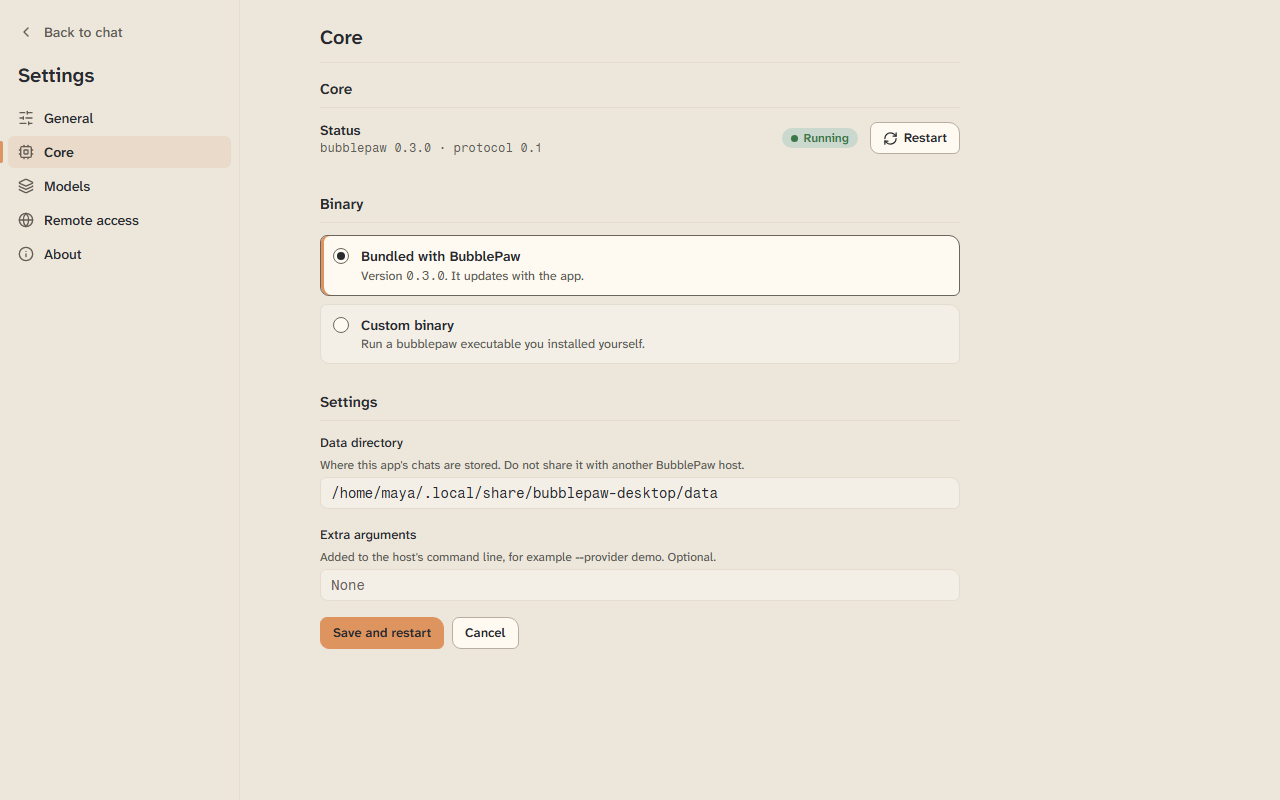
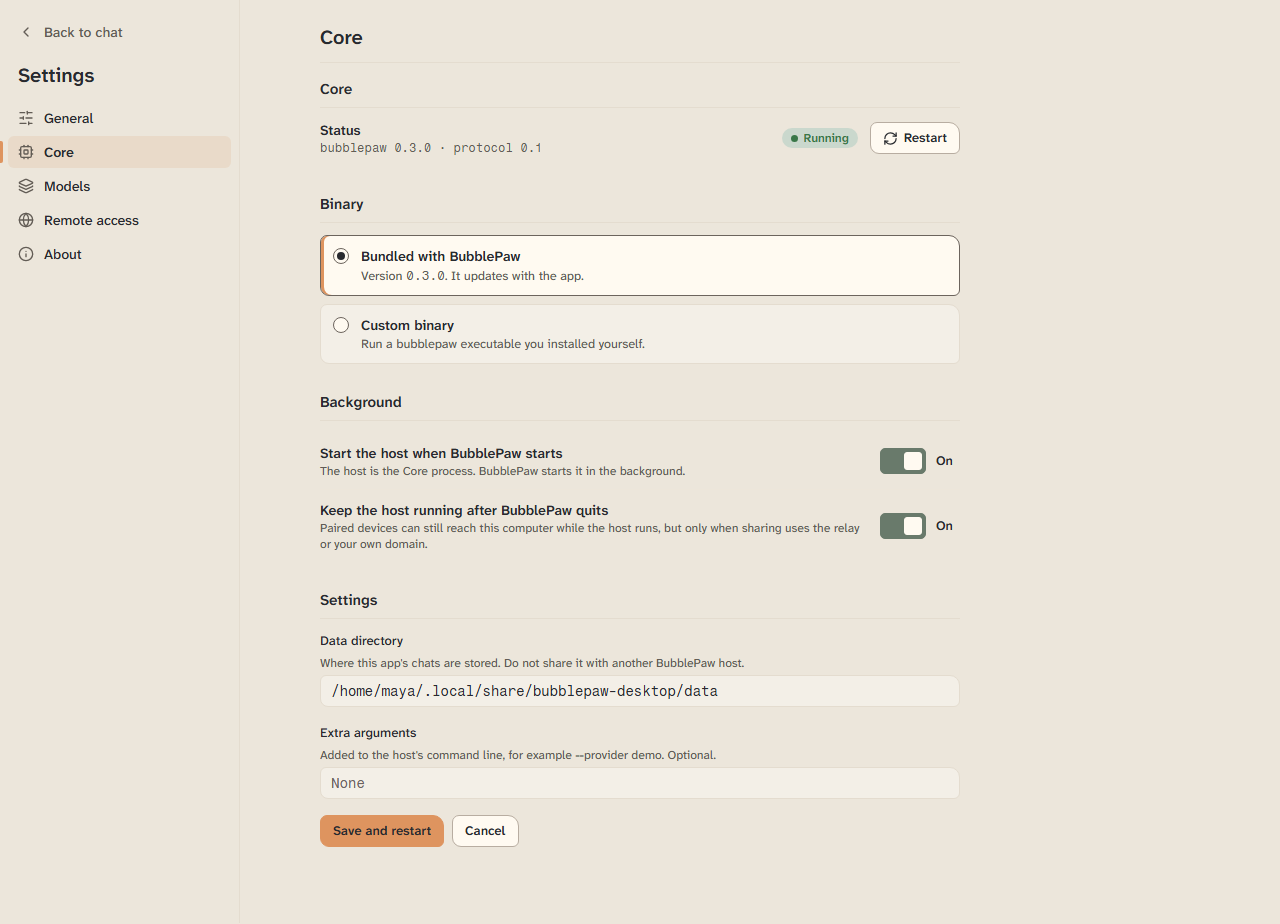
Add tray and background mode mockups, auto-share switch and core background settings

diff --git a/design/remote-and-settings/app.js b/design/remote-and-settings/app.js
@@ -14,9 +14,9 @@
     ...['screen', 'size', 'page', 'ppage', 'tab', 'sub', 'still', 'tall', 'chrome'].map((k) => (k in H ? { [k]: H[k] } : {})));
   const SCREENS = [
     ['settings', '1', 'Settings'], ['share', '2', 'Share this host'], ['pair', '3', 'Pairing, host'],
-    ['add', '4', 'Pairing, phone'], ['phone', '5', 'Phone chat'], ['switcher', '6', 'Host switcher'],
+    ['add', '4', 'Pairing, phone'], ['phone', '5', 'Phone chat'], ['switcher', '6', 'Host switcher'], ['tray', '7', 'Tray'],
   ];
-  const FIXED = { share: 'desktop', pair: 'desktop', add: 'phone', phone: 'phone', switcher: 'desktop' };
+  const FIXED = { share: 'desktop', pair: 'desktop', add: 'phone', phone: 'phone', switcher: 'desktop', tray: 'desktop' };
 
   /* ---------- model ---------- */
   const ALPHA = 'ABCDEFGHJKMNPQRSTVWXYZ0123456789';
@@ -28,9 +28,9 @@
   let uid = 10;
 
   const M = {
-    pref: H.theme || 'light', turn: 'closed', login: false,
+    pref: H.theme || 'light', turn: 'closed', login: false, startTray: false, keepTray: true, toast: H.toast === '1', hostAuto: true, hostKeep: H.keep !== '0', autoShare: true, chats: H.chats !== undefined ? +H.chats : 2, tmenu: true,
     f: { binary: '/opt/bubblepaw/bubblepaw', workspace: '/home/maya/projects/bubblepaw-base', data: '/home/maya/.local/share/bubblepaw-desktop/data', args: '', relay: 'wss://relay.example.com', hostname: 'bubblepaw-desk', zone: 'example.com', token: '', devname: 'Studio desktop', licq: '', pairName: 'Pixel 8', addCode: '', pass1: '', pass2: '', keyFile: '', keySecret: '', apiKey: '' },
-    hostState: 'running', hostSaved: null, coreMode: 'bundled', other: false, autoUpd: true, licOpen: new Set(),
+    hostState: H.hs || 'running', hostSaved: null, coreMode: 'bundled', other: false, autoUpd: true, licOpen: new Set(),
     u: { app: { cur: '0.1.0', latest: null, st: 'idle' }, core: { cur: '0.3.0', latest: null, st: 'idle' } },
     on: H.on !== '0', reach: H.reach || 'temp', cf: { signed: H.cf !== 'signedout' && H.cf !== 'token', tokenOpen: H.cf === 'token', busy: false, account: 'maya@example.com' },
     cfd: H.cfd !== 'missing', cfdBusy: false, upd: 'idle', ver: '2026.10.1',
@@ -68,7 +68,7 @@
   const iconBtn = (name, label, act, arg) => `<button class="iconbtn" aria-label="${label}" title="${label}" ${A(act, arg)}>${ic(name, 18)}</button>`;
   const field = (label, hintText, key, o = {}) =>
     `<div class="field ${o.err ? 'err' : ''}"><label for="f-${key}">${label}</label>${hintText ? `<div class="hint">${hintText}</div>` : ''}<input id="f-${key}" class="input ${o.sans ? 'sans' : ''}" data-k="${key}" value="${(M.f[key] || '').replace(/"/g, '&quot;')}" placeholder="${o.ph || ''}" ${o.type ? `type="${o.type}"` : ''} ${o.cap ? 'autocapitalize="characters"' : ''}>${o.err ? `<div class="hint errtxt">${o.err}</div>` : ''}</div>`;
-  const sw = (on, label, act) => `<button class="switch" role="switch" aria-checked="${on}" ${A(act)}><span class="track"><span class="thumb"></span></span><span class="st">${on ? 'On' : 'Off'}</span><span class="sr">${label}</span></button>`;
+  const sw = (on, label, act, dis) => `<button class="switch" role="switch" aria-checked="${on}" ${dis ? 'disabled' : A(act)}><span class="track"><span class="thumb"></span></span><span class="st">${on ? 'On' : 'Off'}</span><span class="sr">${label}</span></button>`;
   const seg = (items, cur, act) => `<div class="seg" role="group">${items.map(([v, l]) => `<button aria-pressed="${cur === v}" ${A(act, v)}>${l}</button>`).join('')}</div>`;
   const pill = (txt, kind) => `<span class="pill ${kind}">${txt}</span>`;
   const sec = (title, body, right = '') => `<section class="sec"><h2><span>${title}</span>${right}</h2>${body}</section>`;
@@ -109,17 +109,23 @@
     return sec('Appearance',
       `<div class="rowline"><div class="grow"><div class="t">Theme</div><div class="s">System follows the operating system.</div></div>${seg([['system', 'System'], ['light', 'Light'], ['dark', 'Dark']], M.pref, 'pref')}</div>
        <div class="rowline"><div class="grow"><div class="t">Turn layout</div><div class="s">How the steps of a finished turn are shown.</div></div>${seg([['closed', 'Collapsed'], ['open', 'Open']], M.turn, 'turn')}</div>`) +
-      (p ? '' : sec('Startup', `<div class="rowline"><div class="grow"><div class="t">Open at login</div><div class="s">BubblePaw starts with this computer. Remote access only works while it is running.</div></div>${sw(M.login, 'Open at login', 'login')}</div>`));
+      (p ? '' : sec('Startup',
+        `<div class="rowline"><div class="grow"><div class="t">Open at login</div><div class="s">BubblePaw starts with this computer. Remote access only works while it is running.</div></div>${sw(M.login, 'Open at login', 'login')}</div>
+         <div class="rowline"><div class="grow"><div class="t">Start in the tray</div><div class="s">${M.login ? 'At login, BubblePaw starts hidden in the tray instead of opening the window.' : 'Needs Open at login.'}</div></div>${sw(M.login && M.startTray, 'Start in the tray', 'startTray', !M.login)}</div>
+         <div class="rowline"><div class="grow"><div class="t">Keep running in the tray when the window is closed</div><div class="s">${M.keepTray ? 'Closing the window hides it to the tray. Quit from the tray menu.' : 'Closing the window quits BubblePaw.'}</div></div>${sw(M.keepTray, 'Keep running in the tray when the window is closed', 'keepTray')}</div>`));
   }
   function pageHost() {
     const run = M.hostState === 'running', custom = M.coreMode === 'custom';
     return sec('Core',
-      `<div class="rowline" style="padding-top:0"><div class="grow"><div class="t">Status</div><div class="s mono">bubblepaw ${M.u.core.cur} · protocol 0.1</div></div>${run ? pill('Running', 'ok') : pill('Restarting', 'attn')}${btn('Restart', { icon: 'refresh-cw', act: 'hostRestart', disabled: !run })}</div>`) +
+      `<div class="rowline" style="padding-top:0"><div class="grow"><div class="t">Status</div><div class="s mono">bubblepaw ${M.u.core.cur} · protocol 0.1</div></div>${run ? pill('Running', 'ok') : M.hostState === 'restarting' ? pill('Restarting', 'attn') : pill(M.hostState === 'error' ? 'Error' : 'Stopped', 'danger')}${btn('Restart', { icon: 'refresh-cw', act: 'hostRestart', disabled: !run })}</div>`) +
       sec('Binary',
         `<div role="radiogroup" aria-label="Binary">
           <button class="opt" role="radio" aria-checked="${!custom}" ${A('coreMode', 'bundled')}><span class="rd"></span><span><div class="t">Bundled with BubblePaw</div><div class="s">Version <span class="mono">${M.u.core.cur}</span>. It updates with the app.</div></span></button>
           <button class="opt" role="radio" aria-checked="${custom}" ${A('coreMode', 'custom')}><span class="rd"></span><span><div class="t">Custom binary</div><div class="s">Run a bubblepaw executable you installed yourself.</div></span></button>
           ${custom ? `<div class="subpanel"><div class="field"><label for="f-binary">Path to the bubblepaw executable</label><div class="affix"><input id="f-binary" class="input" data-k="binary" value="${M.f.binary}"><button class="btn suffixbtn" ${A('browse')}>${ic('folder-open', 15)}Browse…</button></div></div></div>` : ''}</div>`) +
+      sec('Background',
+        `<div class="rowline"><div class="grow"><div class="t">Start the host when BubblePaw starts</div><div class="s">The host is the Core process. BubblePaw starts it in the background.</div></div>${sw(M.hostAuto, 'Start the host when BubblePaw starts', 'hostAuto')}</div>
+         <div class="rowline"><div class="grow"><div class="t">Keep the host running after BubblePaw quits</div><div class="s">Paired devices can still reach this computer while the host runs, but only when sharing uses the relay or your own domain.</div></div>${sw(M.hostKeep, 'Keep the host running after BubblePaw quits', 'hostKeep')}</div>`) +
       sec('Settings',
         field('Data directory', "Where this app's chats are stored. Do not share it with another BubblePaw host.", 'data') +
         field('Extra arguments', "Added to the host's command line, for example --provider demo. Optional.", 'args', { ph: 'None' }) +
@@ -250,6 +256,10 @@
     if (!M.devices.length) return '<div class="empty">No paired devices. Pair a device to open this computer from a phone or laptop.</div>';
     return M.devices.map((d) => `<div class="dev"><span class="di">${ic(d.icon, 18)}</span><div class="grow"><div class="t">${d.name}</div><div class="s">Last seen ${d.seen}</div></div><span class="tag" title="Permission profile">${d.prof}</span>${btn('Revoke', { kind: 'danger', cls: 'quiet', act: 'dlg', arg: 'revoke:' + d.id })}</div>`).join('');
   }
+  function autoShareRow() {
+    const temp = M.reach === 'temp';
+    return `<div class="rowline" style="margin-top:12px"><div class="grow"><div class="t">Share automatically when the host starts</div><div class="s">${temp ? 'Needs a relay server or your own domain. A temporary address changes on every start.' : 'The host starts sharing as soon as it runs, for example at login.'}</div></div>${sw(!temp && M.autoShare, 'Share automatically when the host starts', 'autoShare', temp)}</div>`;
+  }
   function pageShare() {
     const t = tun();
     const opts = REACH.map(([v, ti, s]) => `<button class="opt" role="radio" aria-checked="${M.reach === v}" ${A('reach', v)}><span class="rd"></span><span><div class="t">${ti}</div><div class="s">${s}</div></span></button>` +
@@ -257,7 +267,7 @@
       (M.reach === v && v === 'relay' ? `<div class="subpanel">${field('Relay address', '', 'relay')}</div>` : '')).join('');
     return sec('Sharing', `<div class="rowline" style="padding-top:0"><div class="grow"><div class="t">Share this host</div><div class="s">${M.on ? 'Paired devices can open chats on this computer while BubblePaw is running.' : 'Nobody can reach this computer. Paired devices stay paired.'}</div></div>${sw(M.on, 'Share this host', 'on')}</div>${M.on && M.other ? `<div class="notice info">${ic('info', 16)}<div>Another BubblePaw host on this computer is already shared: device ID <span class="mono">T4WK-9HDB-2QXN-6MRE</span>, data directory <span class="mono">/var/lib/bubblepaw/data</span>. Devices paired with it can't open this app's chats.</div></div>` : ''}`) +
       sec('How devices reach this computer', `<div role="radiogroup" aria-label="How devices reach this computer">${opts}</div>
-        <div class="consequence">${ic('shield-check', 16)}<span>${M.reach === 'relay' ? 'Traffic is end-to-end encrypted between paired devices. The relay sees only encrypted data.' : 'Traffic is end-to-end encrypted between paired devices. Cloudflare sees only encrypted data.'}</span></div>${statusBlock()}`) +
+        <div class="consequence">${ic('shield-check', 16)}<span>${M.reach === 'relay' ? 'Traffic is end-to-end encrypted between paired devices. The relay sees only encrypted data.' : 'Traffic is end-to-end encrypted between paired devices. Cloudflare sees only encrypted data.'}</span></div>${autoShareRow()}${statusBlock()}`) +
       sec('Paired devices', devRows(), btn('Pair a device', { kind: t.s !== 'stopped' ? 'primary' : '', icon: 'plus', act: 'startPair', disabled: !M.on }));
   }
   function pageRemote(p) {
@@ -436,6 +446,34 @@
       <div class="stream">${transcript(false)}</div>${composer(false)}</div></div>`;
   }
 
+  /* ---------- tray ---------- */
+  const reachName = () => (M.reach === 'temp' ? 'Cloudflare Tunnel' : M.reach === 'domain' ? 'Cloudflare Tunnel, your domain' : 'relay server');
+  const trayState = () => (M.hostState === 'stopped' ? 'stopped' : M.hostState === 'error' ? 'error' : M.on ? 'shared' : 'run');
+  const glyph = (st, size) => `<span class="tg ${st}" style="width:${size}px;height:${size}px">${ic('paw-print', size)}${st === 'shared' || st === 'error' ? '<i class="tdot"></i>' : ''}</span>`;
+  const hostLine = () => (M.hostState === 'stopped' ? 'Host stopped' : M.hostState === 'error' ? 'Host stopped with an error' : M.hostState === 'restarting' ? 'Host restarting' : M.on ? `Host running \u00b7 shared via ${reachName()}` : 'Host running \u00b7 not shared');
+  function trayScreen() {
+    const up = M.hostState === 'running';
+    const down = M.hostState === 'stopped' || M.hostState === 'error';
+    const mi = (label, o = {}) => `<button class="wi ${o.bold ? 'bold' : ''}" role="${o.check ? 'menuitemcheckbox' : 'menuitem'}" ${o.check ? `aria-checked="${!!o.on}"` : ''} ${o.dis ? 'disabled' : A(o.act, o.arg)}><span class="wck">${o.check && o.on ? ic('check', 16) : ''}</span><span class="wl">${label}</span></button>`;
+    const sep = '<div class="wsep" role="separator"></div>';
+    const n = M.chats;
+    const menu = M.tmenu ? `<div class="winmenu" role="menu" aria-label="BubblePaw">
+      ${mi('Open BubblePaw', { bold: true, act: 'trayClose' })}${sep}
+      <div class="wi status" role="presentation"><span class="wck"></span><span class="wl">${hostLine()}</span></div>
+      ${mi('Share this host', { check: true, on: M.on && up, act: 'trayShare', dis: down })}
+      ${n > 0 ? mi(`${n} chat${n === 1 ? '' : 's'} waiting for you`, { act: 'trayChats' }) : ''}${sep}
+      ${mi('Restart host', { act: 'trayRestart', dis: M.hostState === 'restarting' })}${sep}
+      ${M.hostKeep && up ? mi('Quit BubblePaw (host keeps running)', { act: 'trayClose' }) + mi('Quit and stop host', { act: 'trayClose' }) : mi('Quit BubblePaw', { act: 'trayClose' })}</div>` : '';
+    const tile = (st, label) => `<div class="ttile">${glyph(st, 40)}<div class="t">${label}</div></div>`;
+    const cur = trayState();
+    return `<div class="tray-scr win"><section class="tpanel"><h2>Tray icon</h2><div class="tiles">${tile('run', 'Running')}${tile('shared', 'Shared')}${tile('error', 'Stopped or error')}</div><div class="hint">The taskbar icon follows the host. Now: ${cur === 'shared' ? 'shared' : cur === 'run' ? 'running' : 'stopped or error'}.</div></section>
+      ${menu}<div class="taskbar"><span class="grow"></span><span class="tbi">${ic('chevron-up', 16)}</span><button class="tbi tray-btn" aria-label="BubblePaw" aria-expanded="${M.tmenu}" aria-haspopup="menu" ${A('tmenu')}>${glyph(cur, 16)}</button><span class="clock"><div>09:14</div><div>29/10/2026</div></span></div></div>`;
+  }
+  function toastHTML() {
+    if (!M.toast || ph()) return '';
+    return `<div class="toast ${S.screen === 'tray' ? 'above' : ''}" role="status">${ic('info', 16)}<span>BubblePaw is still running in the tray</span><button class="btn quiet" ${A('toastX')}>Dismiss</button></div>`;
+  }
+
   /* ---------- review bar ---------- */
   function curTab() {
     if (S.screen === 'settings' || S.screen === 'share' || S.screen === 'pair') {
@@ -455,7 +493,11 @@
     const chip = (act, arg, label, on, dis) => `<button class="chip" aria-pressed="${on}" ${A(act, arg)} ${dis ? 'disabled' : ''}>${label}</button>`;
     const grp = (lbl, items) => `<span class="chips"><span class="lbl">${lbl}</span>${items.join('')}</span>`;
     const fixed = FIXED[S.screen];
-    const sim = (S.page === 'remote' && S.tab === 'share' && !ph() && (S.screen === 'settings' || S.screen === 'share' || S.screen === 'pair')) ? grp('Simulate', [chip('simfail', 1, 'Tunnel failure', M.fail), chip('simother', 1, 'Other host shared', M.other)]) : '';
+    const sims = [];
+    if (S.page === 'remote' && S.tab === 'share' && !ph() && (S.screen === 'settings' || S.screen === 'share' || S.screen === 'pair')) sims.push(chip('simfail', 1, 'Tunnel failure', M.fail), chip('simother', 1, 'Other host shared', M.other));
+    if (S.screen === 'tray') sims.push(...['running', 'stopped', 'error'].map((v) => chip('hs', v, 'Host ' + v, M.hostState === v)), chip('chatsT', 1, '2 chats waiting', M.chats > 0), chip('hostKeep', 1, 'Host keeps running', M.hostKeep));
+    if ((S.screen === 'settings' || S.screen === 'tray') && !ph()) sims.push(chip('toastT', 1, 'First window close', M.toast));
+    const sim = sims.length ? grp('Simulate', sims) : '';
     return `<div class="bar-row"><div class="tabs" role="tablist" aria-label="Screens">${scr}</div><span class="grow"></span>
       ${grp('Theme', [['light', 'Light'], ['dark', 'Dark']].map(([v, l]) => chip('pref', v, l, M.pref === v)))}
       ${grp('Frame', [['desktop', 'Desktop 1280×800'], ['phone', 'Phone 390×844']].map(([v, l]) => chip('size', v, l, (fixed || S.size) === v, !!fixed)))}</div>
@@ -481,8 +523,9 @@
       case 'add': html = addPage(); break;
       case 'phone': html = phoneChat(); break;
       case 'switcher': html = desktopChat(); break;
+      case 'tray': html = trayScreen(); break;
     }
-    frame.innerHTML = html + dialogHTML();
+    frame.innerHTML = html + dialogHTML() + toastHTML();
     if (M.dlg) { const ov = frame.querySelector('.overlay'); if (ov) ov.classList.add('top'); }
     document.getElementById('bar').innerHTML = bar();
     fit();
@@ -537,6 +580,7 @@
     if (id === 'add') { M.add = { step: 1 }; M.addDone = false; M.f.addCode = ''; S.size = 'phone'; }
     if (id === 'phone') { M.sheet = false; M.pview = 'list'; S.size = 'phone'; }
     if (id === 'switcher') { M.pop = true; S.size = 'desktop'; }
+    if (id === 'tray') { M.tmenu = true; S.size = 'desktop'; }
   };
 
   const ACT = {
@@ -555,7 +599,21 @@
     tab2: (v) => { S.tab = v; },
     pref: (v) => { M.pref = v; },
     turn: (v) => { M.turn = v; },
-    login: () => { M.login = !M.login; },
+    login: () => { M.login = !M.login; if (!M.login) M.startTray = false; },
+    startTray: () => { M.startTray = !M.startTray; },
+    keepTray: () => { M.keepTray = !M.keepTray; },
+    hostAuto: () => { M.hostAuto = !M.hostAuto; },
+    hostKeep: () => { M.hostKeep = !M.hostKeep; },
+    autoShare: () => { M.autoShare = !M.autoShare; },
+    tmenu: () => { M.tmenu = !M.tmenu; },
+    trayClose: () => { M.tmenu = false; },
+    trayChats: () => { M.tmenu = false; S.screen = 'switcher'; M.pop = false; },
+    trayShare: () => { if (M.hostState === 'running') { M.on = !M.on; if (M.on) restart(); } },
+    trayRestart: () => { M.hostState = 'restarting'; later(() => { M.hostState = 'running'; }, 1200); },
+    hs: (v) => { M.hostState = v; },
+    chatsT: () => { M.chats = M.chats > 0 ? 0 : 2; },
+    toastT: () => { M.toast = !M.toast; },
+    toastX: () => { M.toast = false; },
     size: (v) => { S.size = v; M.dlg = null; },
     toChat: () => { if (ph()) { S.screen = 'phone'; M.sheet = false; M.pview = 'list'; } else { S.screen = 'switcher'; M.pop = false; } },
     toSettings: () => { S.size = ph() ? 'phone' : 'desktop'; S.screen = 'settings'; if (!ph()) S.page = 'general'; else S.ppage = 'list'; },

diff --git a/design/remote-and-settings/style.css b/design/remote-and-settings/style.css
@@ -388,3 +388,35 @@ body.still * { animation: none !important; }
 .is-off .ws, .is-off .pop-i { color: var(--muted); opacity: .55; cursor: default; }
 .is-off .ws:hover, .is-off .pop-i:hover { background: transparent; }
 .phone .host-line { min-height: 52px; }
+
+/* Tray and background mode. Tray menu follows the native Windows 11 look. */
+.switch:disabled { opacity: .5; cursor: default; }
+.pill.danger { background: var(--danger); color: var(--danger-ink); }
+.toast { position: absolute; z-index: 30; right: 16px; bottom: 16px; display: flex; align-items: center; gap: 10px; padding: 10px 12px; background: var(--raised); border: 1px solid var(--thread); border-radius: var(--r-panel); box-shadow: var(--seam-shadow-hover); }
+.toast.above { bottom: 64px; }
+.win { --w-bar: rgba(243,243,243,.92); --w-menu: #FBFBFB; --w-line: #E0E0E0; --w-hover: #EAEAEA; --w-ink: #1B1B1B; --w-mut: #5F5F5F; --w-wall: linear-gradient(135deg,#D9E3EE,#EBE3D6); font-family: "Segoe UI Variable Text","Segoe UI",system-ui,sans-serif; }
+:root[data-theme="dark"] .win { --w-bar: rgba(32,32,32,.94); --w-menu: #2C2C2C; --w-line: #454545; --w-hover: #3A3A3A; --w-ink: #FFFFFF; --w-mut: #B5B5B5; --w-wall: linear-gradient(135deg,#1C2430,#2B2622); }
+.tray-scr { position: relative; width: 1280px; height: 800px; background: var(--w-wall); color: var(--w-ink); }
+.tpanel { position: absolute; left: 32px; top: 32px; width: 420px; padding: 16px; background: var(--w-menu); border: 1px solid var(--w-line); border-radius: 8px; }
+.tpanel h2 { margin: 0 0 12px; font-size: 14px; font-weight: 600; }
+.tpanel .hint { color: var(--w-mut); margin-top: 12px; font-size: 12px; }
+.tiles { display: flex; gap: 12px; }
+.ttile { flex: 1; display: flex; flex-direction: column; align-items: center; gap: 10px; padding: 16px 8px; border: 1px solid var(--w-line); border-radius: 6px; }
+.ttile .t { font-size: 12.5px; text-align: center; }
+.tg { position: relative; display: inline-flex; align-items: center; justify-content: center; color: var(--w-ink); }
+.tg.stopped, .tg.error { color: var(--w-mut); opacity: .75; }
+.tg .tdot { position: absolute; right: -2px; bottom: -2px; width: 34%; height: 34%; min-width: 6px; min-height: 6px; border-radius: 50%; background: #3FA45B; border: 1.5px solid var(--w-menu); }
+.tg.error .tdot { background: #D13438; }
+.taskbar { position: absolute; left: 0; right: 0; bottom: 0; height: 48px; display: flex; align-items: center; gap: 4px; padding: 0 12px; background: var(--w-bar); border-top: 1px solid var(--w-line); }
+.taskbar .grow { flex: 1; }
+.tbi { display: inline-flex; align-items: center; justify-content: center; width: 32px; height: 36px; border: 0; background: transparent; border-radius: 4px; color: var(--w-ink); }
+.tbi:hover { background: var(--w-hover); }
+.clock { text-align: right; font-size: 12px; line-height: 16px; padding: 0 8px; }
+.winmenu { position: absolute; right: 70px; bottom: 56px; width: 340px; padding: 4px; background: var(--w-menu); border: 1px solid var(--w-line); border-radius: 8px; box-shadow: 0 8px 24px rgba(0,0,0,.28); }
+.wi { display: flex; align-items: center; width: 100%; min-height: 36px; padding: 0 12px 0 0; border: 0; border-radius: 4px; background: transparent; color: var(--w-ink); text-align: left; font-size: 14px; }
+button.wi:hover:not(:disabled) { background: var(--w-hover); }
+.wi.bold .wl { font-weight: 600; }
+.wi.status { color: var(--w-mut); }
+.wi:disabled { color: var(--w-mut); opacity: .6; }
+.wck { width: 32px; flex: none; display: inline-flex; justify-content: center; }
+.wsep { height: 1px; margin: 4px 8px; background: var(--w-line); }

diff --git a/design/remote-and-settings/icons.js b/design/remote-and-settings/icons.js
@@ -49,4 +49,5 @@ window.LUCIDE = {
   "plug": "<path d=\"M12 22v-5\"/><path d=\"M9 8V2\"/><path d=\"M15 8V2\"/><path d=\"M18 8v5a4 4 0 0 1-4 4h-4a4 4 0 0 1-4-4V8Z\"/>",
   "link": "<path d=\"M10 13a5 5 0 0 0 7.54.54l3-3a5 5 0 0 0-7.07-7.07l-1.72 1.71\"/><path d=\"M14 11a5 5 0 0 0-7.54-.54l-3 3a5 5 0 0 0 7.07 7.07l1.71-1.71\"/>",
   "monitor-smartphone": "<path d=\"M18 8V6a2 2 0 0 0-2-2H4a2 2 0 0 0-2 2v7a2 2 0 0 0 2 2h8\"/><path d=\"M10 19v-3.96 3.15\"/><path d=\"M7 19h5\"/><rect width=\"6\" height=\"10\" x=\"16\" y=\"12\" rx=\"2\"/>",
+  "paw-print": "<circle cx=\"11\" cy=\"4\" r=\"2\"/><circle cx=\"18\" cy=\"8\" r=\"2\"/><circle cx=\"20\" cy=\"16\" r=\"2\"/><path d=\"M9 10a5 5 0 0 1 5 5v3.5a3.5 3.5 0 0 1-6.84 1.045Q6.52 17.48 4.46 16.84A3.5 3.5 0 0 1 5.5 10Z\"/>",
 };
